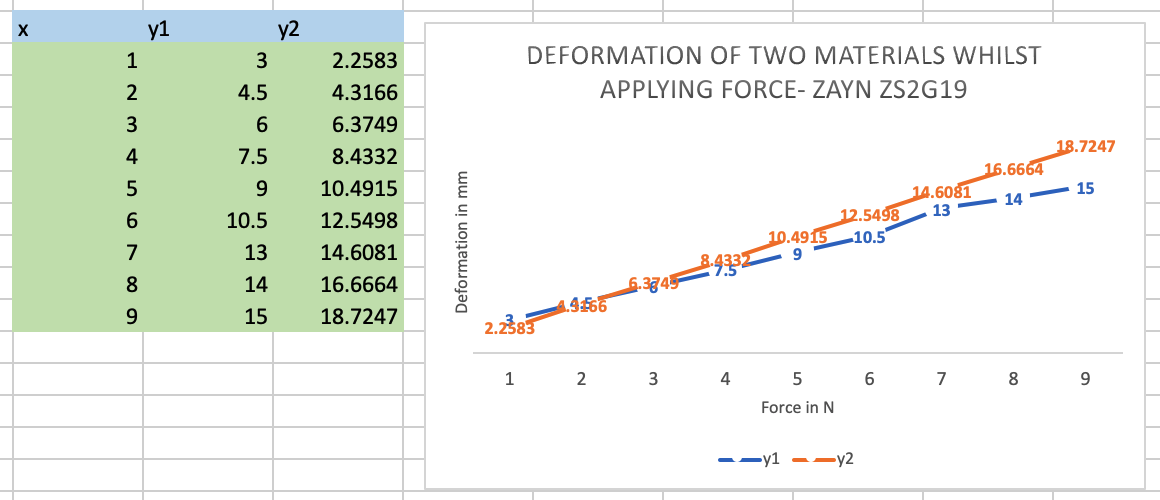
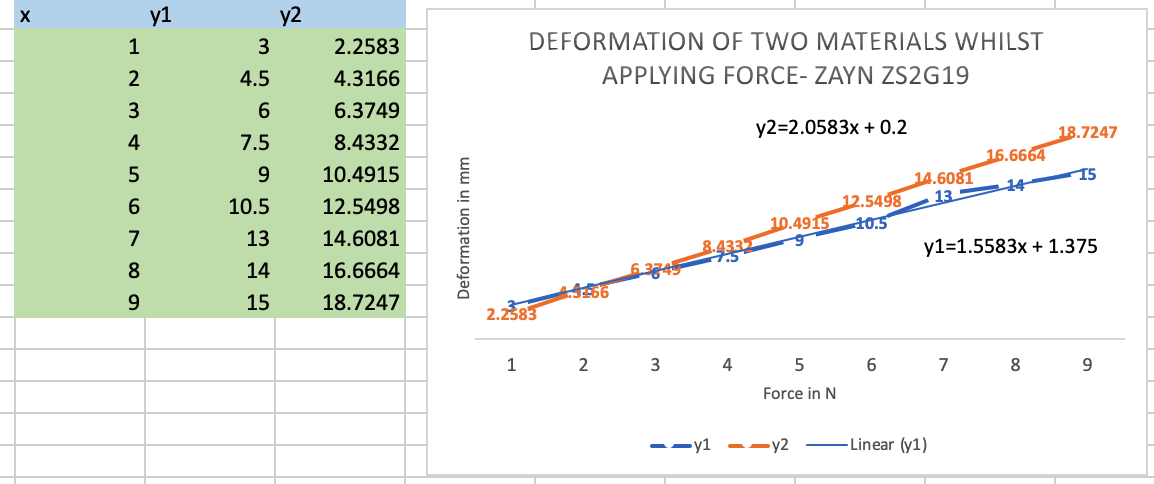
added potential errors compapps assignment 1

diff --git a/compapps.html b/compapps.html
@@ -68,7 +68,30 @@
 		The law states that <q>“for relatively small deformations of an object, the displacement or size of the deformation is directly proportional to the deforming force or load. Under these conditions the object returns to its original shape and size upon removal of the load”</p></q>[2]
 		Hooke's law is expressed as the following equation: <q>f = kx </q>, where F is force (in N),  k is a constant, and x is the extension of the material (in meters).</p>
 		<img src="Images/compapps/image1.jpg">[3]
-
+		<p>The image above demonstrates this law in action, shown is the extension of the spring is equal to the force applied.</p>
+		<h4>Experimental Analysis</h4>
+		<p> I carried out an experiment to test Hooke's law, with three different materials. y1,y2,and z. These materials were placed under force (in newtons), and the deformations (in millimeters).</p>
+		<img src="Images/compapps/image2.png">
+		<p>The image above displays the results of our first experiment, X is the force applied in Newtons, Y1 and Y2 columns contain the deformations of each material respectively. The graphical representation of my results shows the deformation of both materials (Y1 and Y2) are linearly related to the force applied, indicating that Hooke's law is in fact valid.
+			From these graphs, we can work out a linear equation for each line, in form of y = ax + b.
+			For Y1, a =1.5583, and b= 1.375. 
+			For Y2, a=2.0583, and b = 0.2.
+			Note the anomaly at x=7, where the point does not fit in with the trend.</p>
+			<br><br><br>
+			<p>The intersection point of the two lines can also be found using simultaneous equations, as shown below.</p>
+			<img src="Images/compapps/image3.JPG">
+			<p>I estimated  the x co-ordinate for the intersection to be 2.3 by looking at the chart and guessing the x value of when they intersect.
+				However, when I did calculate the x value using simultaneous equations, the x value was found to be 2.35 instead.<br>At x=2.35, the deformation of both materials is equal, which is approximately 5.04 mm.</p>
+<br><br><br>
+<p>I also tested a third material, called z. This material had force applied to it so that it was beyond it's 'plastic region'.
+	The results of the experiment are shown in the image below.</p>
+	<img src="Images/compapps/image4.png">
+	<p>The force applied (X) and the deformation (Z) are not linearly correlated.
+		This can be explained by the material going beyond its plastic region, and is now being permanently deformed by the force applied to it. When this occurs, we do not get a linear function and instead get a polynomial function, therefore Hooke's law is no longer valid in this case.<br>Once a material passed the region of plasticity, it becomes extremely difficult to predict it's behaviour. Some materials may snap, and some others may stretch.</p>
+		<br><br><br>
+		<h4>Possible explanations for errors</h4>
+		<p>Errors can occur in any experiment, and may explain erroneous results such as x=7 in the first experiment. Errors may come through inaccurate measurements of the material deformation. Perhaps another source of error may be equipment malfunctions, and or not being properly calibrated. There may have been error whilst applying force, meaning too much or too little might have been applied.
+	</p>
 
 <br><br>
 <h3>2020/10/23 Reflecting on my Digital Identity</h3> <A NAME="week3"></a>
